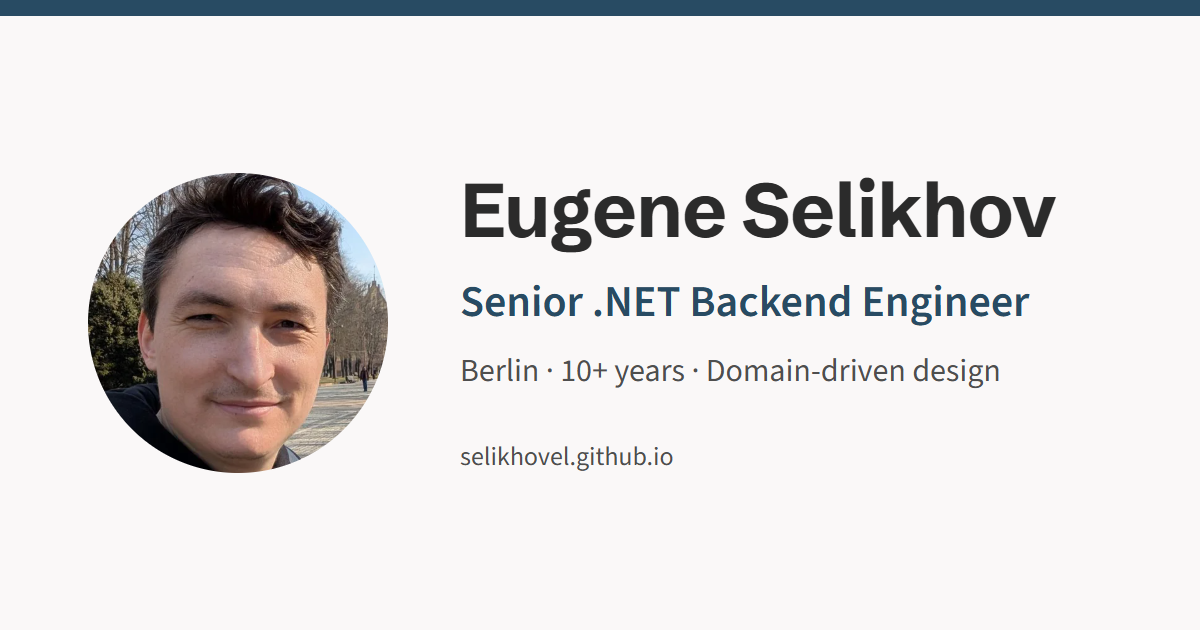
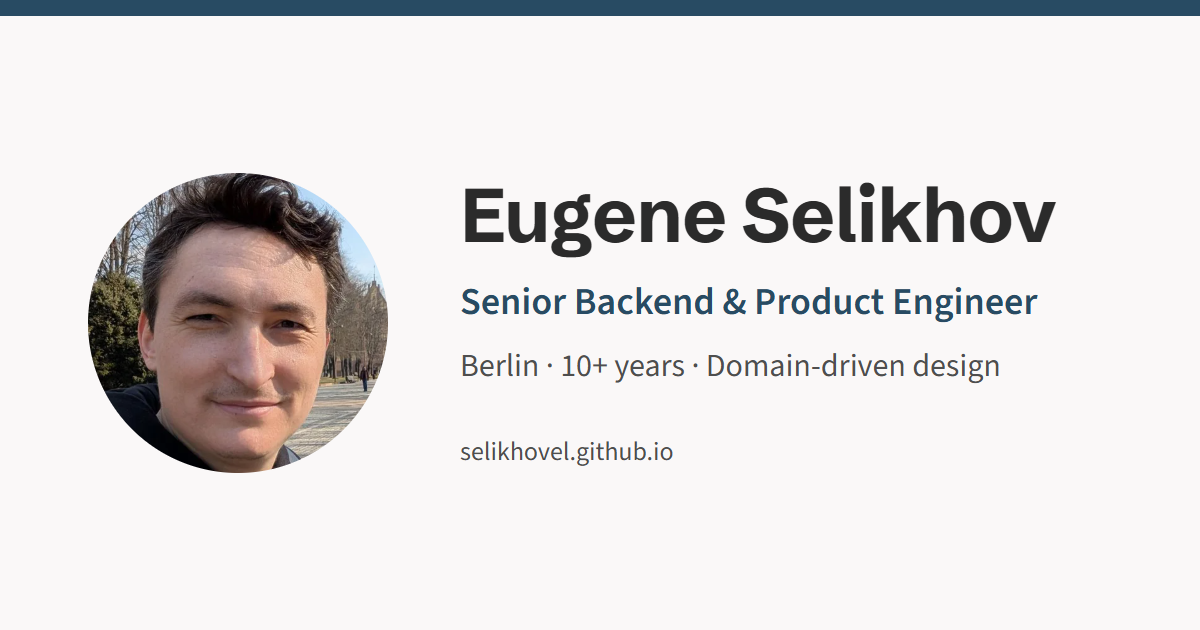
Rewrite the CV summary and drop .NET from the headline
The summary was a recruiter template ("passionate about", "proven track
record"). The new one is built only from facts Eugene supplied: the
Global Tech Hub team of about twenty, around 50 interviews for Senior
and Principal roles, parts logic for every Mercedes-Benz model, and the
agentic delivery cycle on Gemini introduced bottom-up.

The headline becomes "Senior Backend & Product Engineer" in all four
places: the line under the name, the page title, the schema.org
jobTitle and the LinkedIn card. The target is Principal, Product and
AI-first roles, so the stack moves out of the title. CLAUDE.md records
the new positioning. The card's role line is set smaller and unwrapped
so the longer title stays on one line. The PDF is still two pages.

diff --git a/content/index.md b/content/index.md
@@ -1,6 +1,6 @@
 ---
-title: Senior .NET Backend Engineer in Berlin
-description: Eugene Selikhov is a Senior Backend Engineer in Berlin with 10+ years in .NET. Domain-driven design, event-driven architecture and greenfield platforms for Colliers, Mercedes-Benz and fintech.
+title: Senior Backend & Product Engineer in Berlin
+description: Eugene Selikhov is a Senior Backend & Product Engineer in Berlin with 10+ years in hard domains. Domain-driven design, agentic delivery and greenfield platforms for Colliers, Mercedes-Benz and fintech.
 socialImage: cv-card.png
 ---
 
@@ -8,7 +8,7 @@ socialImage: cv-card.png
 
 # Eugene Selikhov
 
-**Senior Backend Engineer** · Berlin, Germany · EU citizen · Open to relocation
+**Senior Backend & Product Engineer** · Berlin, Germany · EU citizen · Open to relocation
 
 [eugene.selikhov.dev@gmail.com](mailto:eugene.selikhov.dev@gmail.com) · [LinkedIn](https://www.linkedin.com/in/selikhovevgenii/) · [GitHub](https://github.com/selikhovel/)<span class="no-print"> · <a href="/cv.pdf" download="Eugene-Selikhov-CV.pdf">Download CV as PDF</a></span>
 
@@ -16,7 +16,7 @@ socialImage: cv-card.png
 
 ## Professional Summary
 
-Senior Backend Engineer with 10+ years of experience turning complex business domains into clean, scalable systems, from automotive parts variation logic to global real estate data platforms. Passionate about domain ownership and close business collaboration; deep expertise in DDD, event-driven architecture and modern .NET, with a proven track record of leading greenfield platforms, legacy modernisation and technical hiring. Actively adopting and introducing AI agentic development into engineering workflows.
+Ten years of backend work in domains that are hard to model, from nuclear plant construction to parts logic covering every Mercedes-Benz model. Now founding engineer of the Colliers Global Tech Hub, a team of about twenty. I own the core domain model, and most of that work happens with the business before any code. I also set the hiring bar, with around 50 interviews for Senior and Principal roles. I built the team's agentic delivery cycle on Gemini, spec-driven from requirements to deploy, and introduced it bottom-up. It helped most where we were weakest: requirements and ticket refinement.
 
 ## Technical Skills
 

diff --git a/CLAUDE.md b/CLAUDE.md
@@ -38,10 +38,16 @@ the garden chrome (explorer, graph) via `condition: not-index`, and why SEO
 details — canonical URLs, structured data, titles — are treated as functionality
 rather than polish.
 
-The positioning is a bridge: the title stays "Senior Backend Engineer", because
-that is what recruiters search for and what ten years of history supports, while
-the product-engineering direction is shown through the About page and project
-write-ups rather than claimed in a job title.
+The headline is "Senior Backend & Product Engineer", with no stack in it. The
+target is Principal, Product Engineer and AI-first roles, so ".NET" stays in the
+skills list and out of the title. "Backend Engineer" stays because recruiters
+search for it and ten years of history supports it. "Principal" is not claimed:
+every past role says Senior, and the level is shown by scope instead, through
+the hub, the hiring bar and the interviews for Principal roles. The headline
+appears in four places that must agree: the line under the name and the
+frontmatter title in `content/index.md`, `person.jobTitle` in
+`quartz.config.yaml`, and `scripts/make-social-card.mts`, which has to be
+re-run.
 
 ## Commands
 
